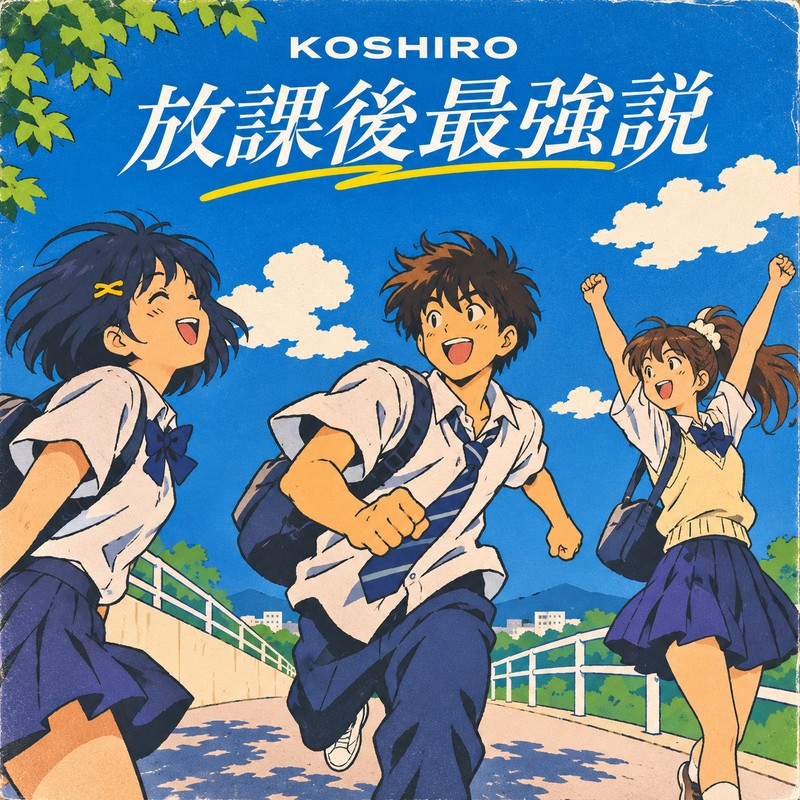
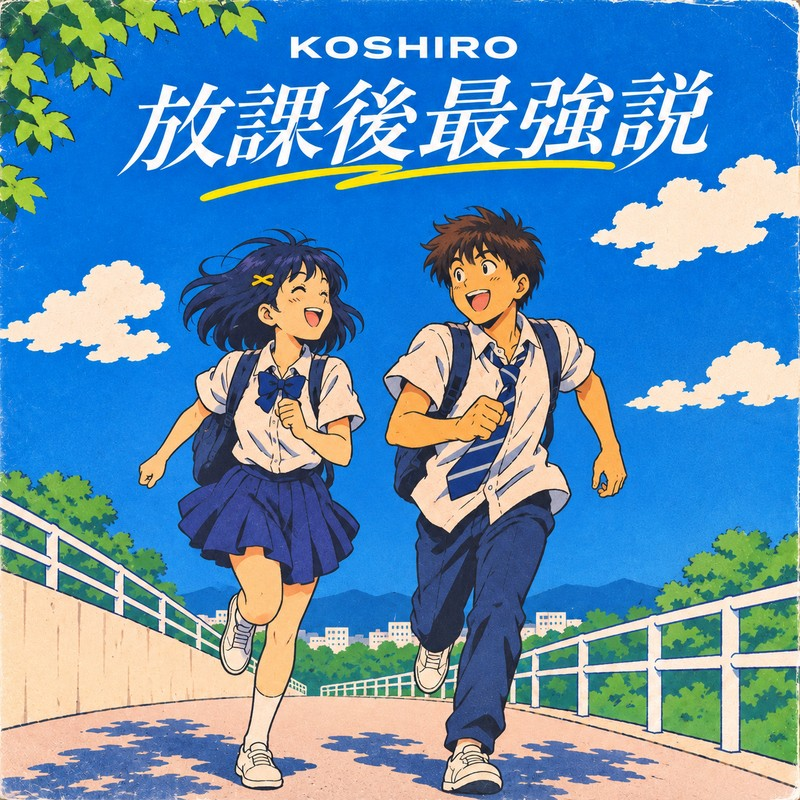
範囲外・放課後最強説 のジャケットを差し替え (#70)
Claude-Session: https://claude.ai/code/session_01Rw4hYeJdwbNEViPJgg9M1V

diff --git a/modern.html b/modern.html
@@ -395,9 +395,9 @@
               </button>
             </li>
             <li>
-              <button class="tracklist-row" type="button" data-src="audio/hanigai.m4a" data-seconds="234" data-art="images/jacket-hanigai.jpg?v=2" data-art-alt="ジャケット：夕方の空とフェンスを背に、こちらを見つめるショートヘアの女性" data-peaks="49,48,47,51,60,60,63,70,63,68,73,70,76,73,73,69,72,77,63,56,66,51,62,59,68,53,56,65,69,69,70,68,67,67,68,67,67,63,70,66,62,62,64,71,71,76,80,80,80,75,75,78,75,82,75,77,77,76,76,75,75,74,73,70,73,75,73,76,79,80,81,77,76,65,58,58,52,62,65,65,49,71,75,69,77,69,69,72,64,79,73,67,68,69,65,64,60,69,70,74,79,83,83,83,83,83,86,83,83,81,88,84,90,85,90,83,87,91,66,44,55,56,62,56,60,59,61,41,32,62,85,74,66,86,89,88,92,87,91,93,92,90,91,93,92,94,91,96,76,96,90,90,97,98,98,94,96,100,95,96,93,97,99,100,100,100,86,92,94,95,97,100,97,100,88,97,80,54,32,11">
+              <button class="tracklist-row" type="button" data-src="audio/hanigai.m4a" data-seconds="234" data-art="images/jacket-hanigai.jpg?v=3" data-art-alt="ジャケット：90年代のセル画アニメ風。フェンスにもたれて見上げる、ジャージ姿のショートヘアの女の子。方眼紙のような空に赤ペンの矢印。曲名と feat. SUI、KOSHIRO の文字" data-peaks="49,48,47,51,60,60,63,70,63,68,73,70,76,73,73,69,72,77,63,56,66,51,62,59,68,53,56,65,69,69,70,68,67,67,68,67,67,63,70,66,62,62,64,71,71,76,80,80,80,75,75,78,75,82,75,77,77,76,76,75,75,74,73,70,73,75,73,76,79,80,81,77,76,65,58,58,52,62,65,65,49,71,75,69,77,69,69,72,64,79,73,67,68,69,65,64,60,69,70,74,79,83,83,83,83,83,86,83,83,81,88,84,90,85,90,83,87,91,66,44,55,56,62,56,60,59,61,41,32,62,85,74,66,86,89,88,92,87,91,93,92,90,91,93,92,94,91,96,76,96,90,90,97,98,98,94,96,100,95,96,93,97,99,100,100,100,86,92,94,95,97,100,97,100,88,97,80,54,32,11">
                 <span class="tracklist-cover">
-                  <img class="tracklist-art" src="images/jacket-hanigai.jpg?v=2" alt="" width="400" height="400" loading="lazy" />
+                  <img class="tracklist-art" src="images/jacket-hanigai.jpg?v=3" alt="" width="400" height="400" loading="lazy" />
                   <span class="tracklist-mark" aria-hidden="true"><svg class="tracklist-play" viewBox="0 0 24 24" focusable="false"><path d="M8 5v14l11-7z"/></svg><span class="tracklist-bars"><i></i><i></i><i></i></span></span>
                 </span>
                 <span class="tracklist-meta"><span class="tracklist-num">8</span><span class="tracklist-length">3:54</span></span>
@@ -405,9 +405,9 @@
               </button>
             </li>
             <li>
-              <button class="tracklist-row" type="button" data-src="audio/houkago-saikyou.m4a" data-seconds="264" data-art="images/jacket-houkago-saikyou.jpg?v=4" data-art-alt="ジャケット：90年代のセル画アニメ風。青空の下、制服姿で笑いながら走る3人の生徒。上に曲名と KOSHIRO の文字" data-peaks="33,48,56,45,45,45,51,59,53,56,59,71,71,74,73,74,73,72,74,68,55,68,62,63,66,66,67,68,67,71,72,71,70,71,69,72,68,71,70,65,72,73,64,58,64,69,70,68,74,72,72,77,77,74,78,75,75,74,76,76,75,73,75,74,76,77,77,75,77,78,75,76,74,76,71,50,73,71,74,80,77,77,71,71,68,71,68,68,67,69,70,73,74,72,72,68,70,75,71,70,72,77,69,73,72,71,72,78,73,76,84,85,74,72,59,59,68,81,78,76,78,82,82,86,82,82,85,83,83,82,83,83,85,86,89,87,87,84,85,87,89,83,72,75,72,77,85,89,87,90,90,86,94,92,93,100,94,97,96,98,97,97,97,95,97,100,96,96,96,98,93,100,98,97,100,99,94,95,93,93">
+              <button class="tracklist-row" type="button" data-src="audio/houkago-saikyou.m4a" data-seconds="264" data-art="images/jacket-houkago-saikyou.jpg?v=5" data-art-alt="ジャケット：90年代のセル画アニメ風。青空の下、制服姿で笑いながら並んで走る男の子と女の子。上に曲名と KOSHIRO の文字" data-peaks="33,48,56,45,45,45,51,59,53,56,59,71,71,74,73,74,73,72,74,68,55,68,62,63,66,66,67,68,67,71,72,71,70,71,69,72,68,71,70,65,72,73,64,58,64,69,70,68,74,72,72,77,77,74,78,75,75,74,76,76,75,73,75,74,76,77,77,75,77,78,75,76,74,76,71,50,73,71,74,80,77,77,71,71,68,71,68,68,67,69,70,73,74,72,72,68,70,75,71,70,72,77,69,73,72,71,72,78,73,76,84,85,74,72,59,59,68,81,78,76,78,82,82,86,82,82,85,83,83,82,83,83,85,86,89,87,87,84,85,87,89,83,72,75,72,77,85,89,87,90,90,86,94,92,93,100,94,97,96,98,97,97,97,95,97,100,96,96,96,98,93,100,98,97,100,99,94,95,93,93">
                 <span class="tracklist-cover">
-                  <img class="tracklist-art" src="images/jacket-houkago-saikyou.jpg?v=4" alt="" width="400" height="400" loading="lazy" />
+                  <img class="tracklist-art" src="images/jacket-houkago-saikyou.jpg?v=5" alt="" width="400" height="400" loading="lazy" />
                   <span class="tracklist-mark" aria-hidden="true"><svg class="tracklist-play" viewBox="0 0 24 24" focusable="false"><path d="M8 5v14l11-7z"/></svg><span class="tracklist-bars"><i></i><i></i><i></i></span></span>
                 </span>
                 <span class="tracklist-meta"><span class="tracklist-num">9</span><span class="tracklist-length">4:24</span></span>
